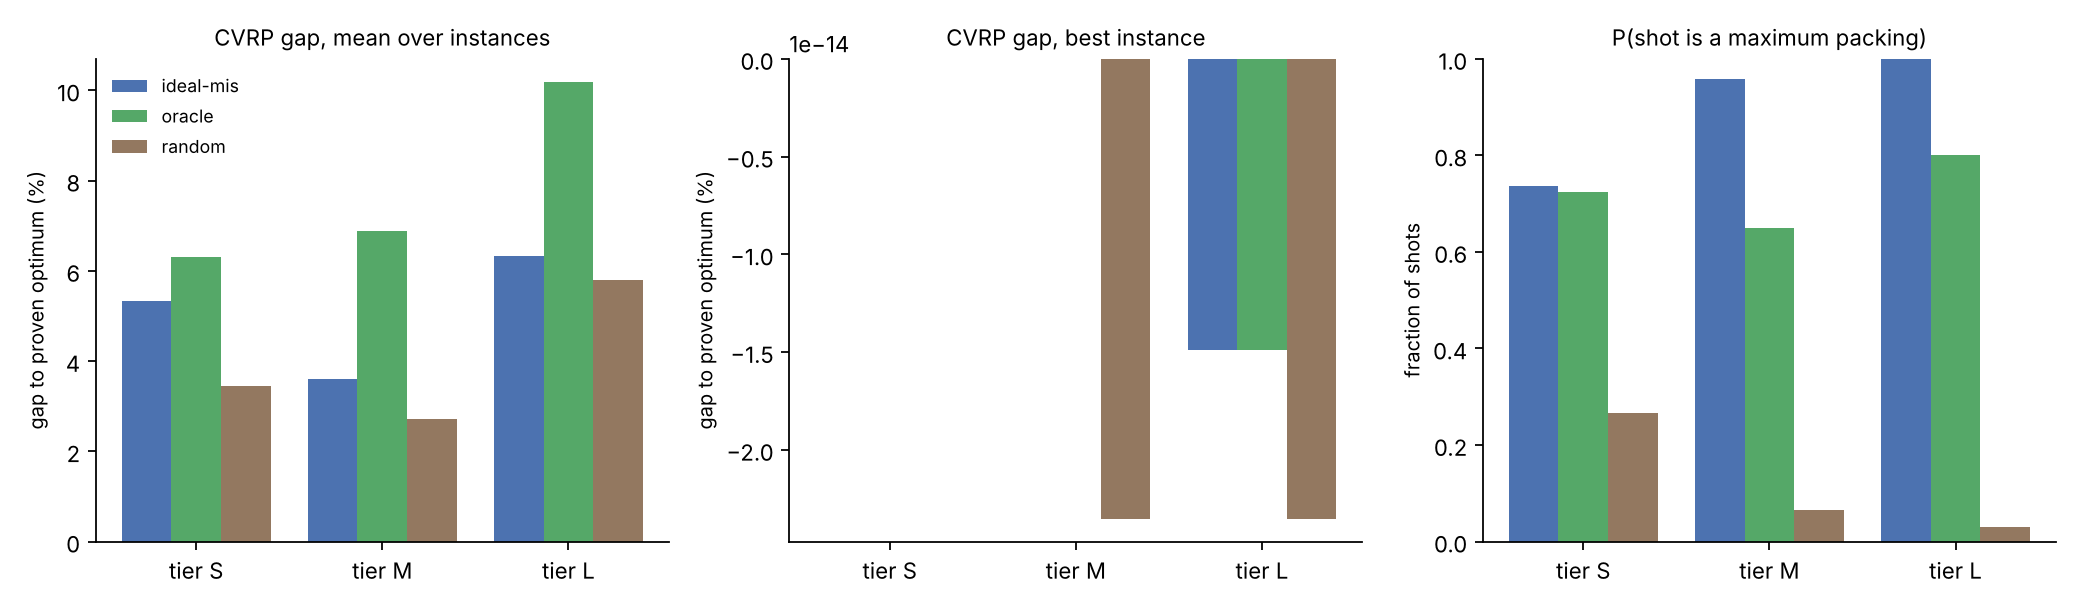
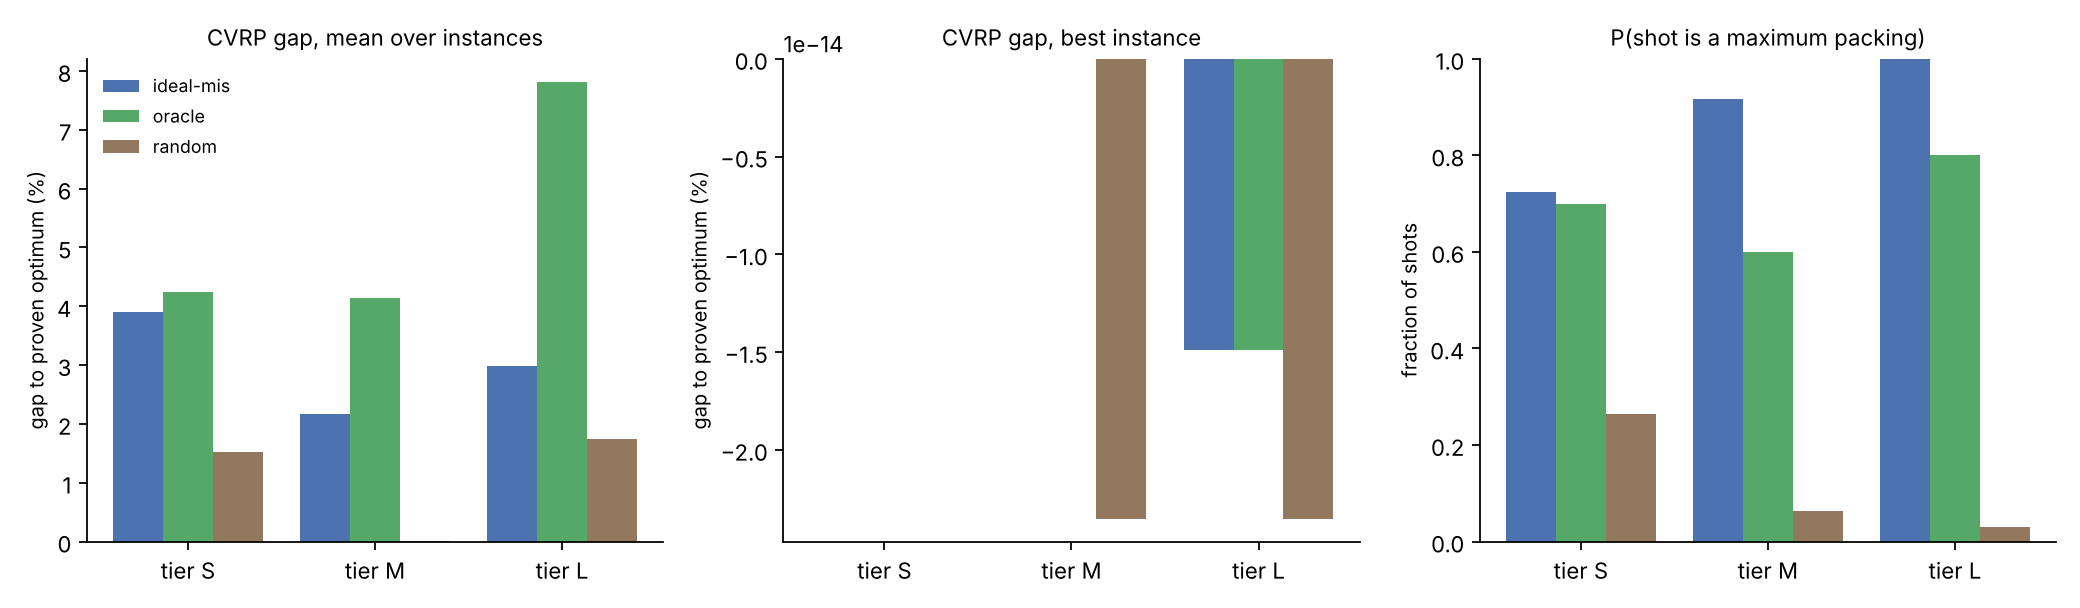
Cheat-sheet updated for the completion-ladder results; summary figure uses exact-completion rows
Claude-Session: https://claude.ai/code/session_01VZmZQ2cHeDcQ7thCsuxE6C

diff --git a/scripts/plot_results.py b/scripts/plot_results.py
@@ -37,6 +37,8 @@ COLORS = {"ideal-mis": "#4C72B0", "oracle": "#55A868", "qutip": "#C44E52", "emu-
 
 def plot_results(csv_path: Path, out: Path):
     df = pd.read_csv(csv_path)
+    if df["method"].astype(str).str.endswith("+exact").any():
+        df = df[df["method"].astype(str).str.endswith("+exact")]   # final.csv: plot the exact-completion rows
     for col in ("cvrp_gap_pct", "p_mis_shot", "feasibility_rate_raw", "coverage_best"):
         df[col] = pd.to_numeric(df[col], errors="coerce")
     df["feasible"] = df["feasible"].astype(str).str.lower().isin(["true", "1"])

diff --git a/report/judging-cheatsheet.md b/report/judging-cheatsheet.md
@@ -71,27 +71,38 @@ violable edges = raw feasibility collapses (tested: 23/51 edges violable, 0 % ra
   the empty register). Score by feasibility rate / P(max packing) / best gap — never mean energy.
   "slow-end" puts 70 % of the sweep on the positive side because that is where the gap closes for MIS.
 
-## 6. References and gaps
+## 6. References, gaps, completion
 
 * CVRP reference: Held–Karp over every subset ($2^N \times N$ states) gives the exact tour of every
   possible cluster; set-partitioning IP over ALL capacity-feasible subsets (HiGHS) gives the proven
-  optimum. Brute-force enumeration cross-checks S and M and counts distinct optima (clusterings compared as
-  sets of groups — Pitfall 9.3). So every gap is against a proven optimum, not a best-known.
-* Gap levels: model gap (clustering objective of best feasible shot vs constrained-model optimum), CVRP
-  gap (best shot routed exactly vs CVRP optimum), decomposition gap (model optimum routed exactly vs
-  CVRP optimum) = the price of cluster-first/route-second itself.
-* Selection rule: best raw-feasible shot (independent set, ≤ K candidates, most kept, then objective);
-  repair only as fallback, flagged. `cvrp_gap_pct_any` is the classical-completion number, reported for
-  honesty.
+  optimum. Brute-force enumeration cross-checks S and M and counts distinct optima; Kevin's DP
+  cross-checks L. So every gap is against a proven optimum, not a best-known.
+* Completion (the classical step after the shot), two strengths, both reported: *greedy* (leftovers to
+  the cheapest cluster with slack by pairwise distance) and *exact* (every assignment of ≤ 8 leftovers to
+  the K vehicles, scored by exact tour cost; optimal given the device's candidates). The device's chosen
+  candidates are never altered; if the device lit more than K, every K-subset is tried.
+* Selection: best raw-feasible shot (independent set, ≤ K candidates) by exact routed cost; repaired
+  shots only as fallback, flagged. `cvrp_gap_pct_any` = best over all shots, reported for honesty.
+* Under the exact completion, model gap = CVRP gap (set partitioning with tour costs IS the CVRP).
 
-## 7. The honest answers
+## 7. The honest answers (updated with the 20-instance results)
 
-* "Does the quantum part do anything?" Per shot, yes: 80–100 % of register ground states are valid maximum
-  packings versus 1–7 % of random bitstrings. On the final gap, best-of-500 random strings through the
-  same completion step is competitive at these sizes — the completion is strong and a MIS on ≤ 10 atoms
-  is found by luck in a few percent of strings. I show both.
-* "Why is the model gap so big?" The packing optimises compactness through candidate construction, not
-  the pairwise objective; the exact routing forgives it (CVRP gap is smaller than model gap on every tier).
-* "Why not emu-mps?" Registers are ≤ 10 atoms; QuTiP is exact, so there is no bond dimension to report.
-* "Where did AI help?" Everywhere (brainstorm, derivation drafts, code, report draft); I re-ran and re-derived
-  everything; the device checks that caught my own errors are in the repo (`check_pulser.py`).
+* "Does the quantum part do anything?" Per shot, yes: 60–100 % of register ground states are valid
+  maximum packings vs 3–6 % of random bitstrings on M/L (10–30×). On final route length, no: under
+  the greedy completion the ideal register ties random (9.7 vs 9.9 % on L); under the exact completion
+  random wins (1.7 vs 3.0 %) because low-coverage shots hand the exhaustive completion most of the
+  problem. At ≤ 12 atoms the completion sets the gap. We show both; we don't hide it.
+* "Then why bother?" The brief says no device beats a tuned classical solver and that is not what is
+  measured. What we show: a formulation where the inequality never reaches the device, 2–12 atoms
+  instead of 14–80, exact emulation on every tier, feasibility that tracks a measurable embedding
+  metric, and a clean pulse-adiabaticity curve. And a measured ceiling: where the quantum step stops
+  mattering.
+* "Why not weight candidates (DMM)?" We computed the ideal maximum-weight packing: worse than
+  uniform (L 8.7 vs 4.8 %). Fixing bigger candidates constrains the completion more. So we didn't
+  build it. `AnalogDevice` has no DMM anyway; `DigitalAnalogDevice` does (emulation only).
+* "Why not petals?" Tried: coverage up, gap not, embedding worse when mixed with balls.
+* "Why is the oracle worse than the sweep?" The oracle returns only exact ground states; the sweep also
+  returns low excited states, and best-of-500 picks a better one. Score pulses per shot.
+* "Why not emu-mps?" Registers are ≤ 12 atoms; QuTiP is exact; no bond dimension to report.
+* "Where did AI help?" Everywhere (brainstorm, derivation drafts, code, report draft); we re-ran and
+  re-derived everything; the device checks that caught our errors are in the repo (`check_pulser.py`).
